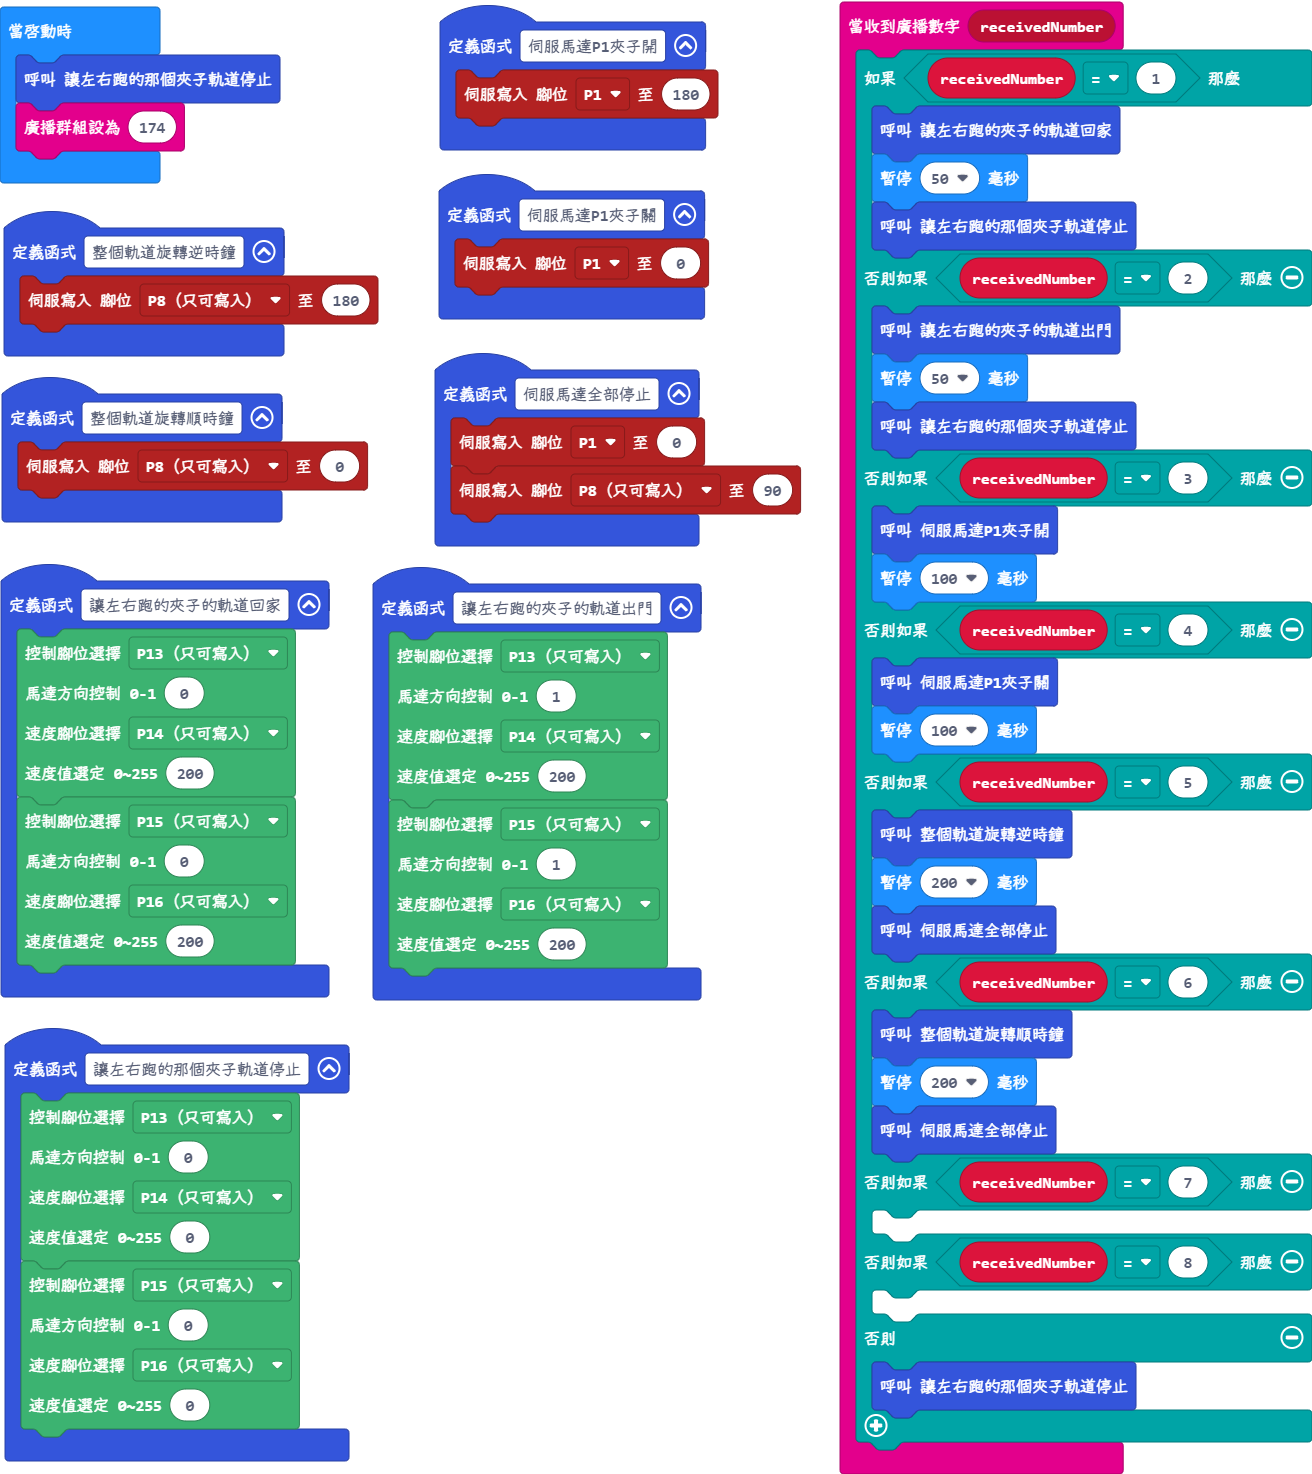
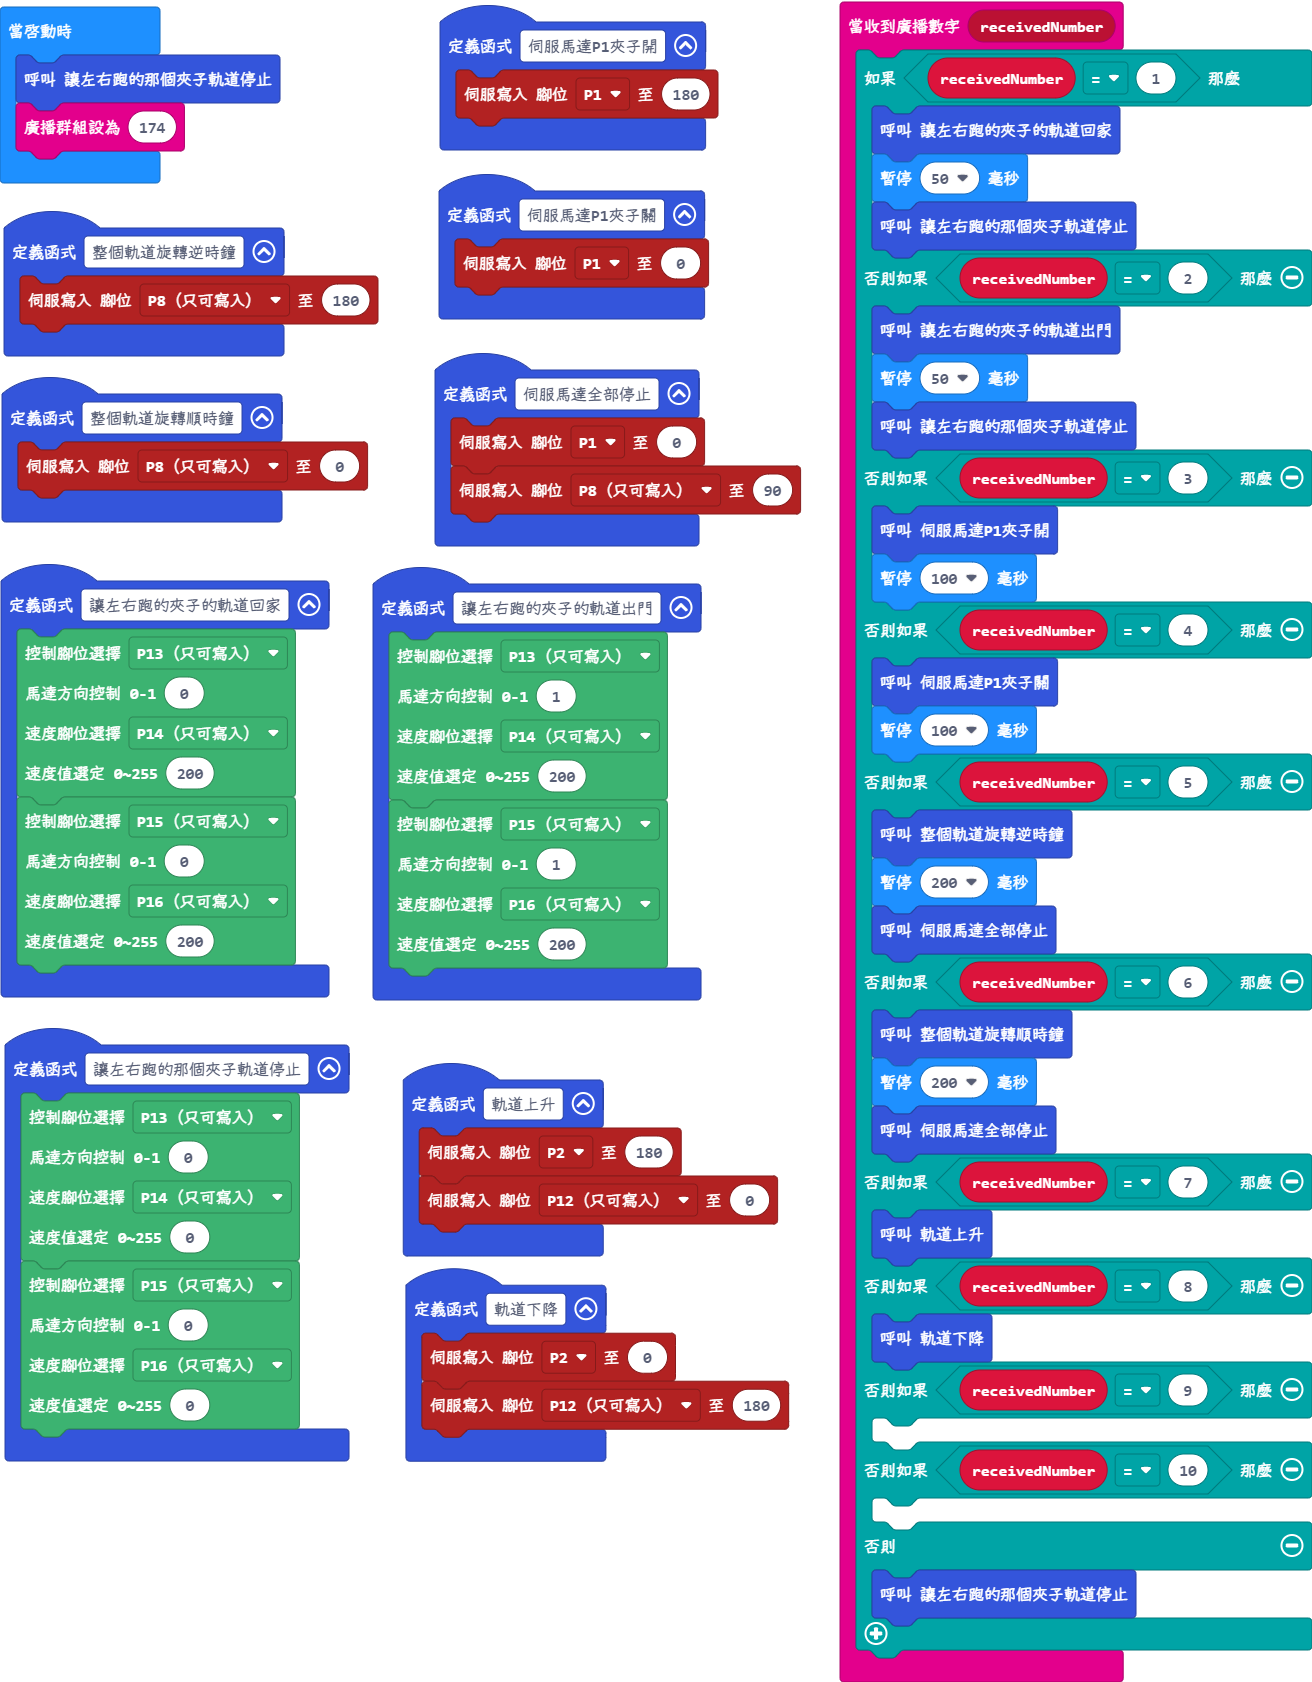
更新 main.blocks, main.ts

diff --git a/main.ts b/main.ts
@@ -22,8 +22,12 @@ radio.onReceivedNumber(function (receivedNumber) {
         basic.pause(200)
         伺服馬達全部停止()
     } else if (receivedNumber == 7) {
-    	
+        軌道上升()
     } else if (receivedNumber == 8) {
+        軌道下降()
+    } else if (receivedNumber == 9) {
+    	
+    } else if (receivedNumber == 10) {
     	
     } else {
         讓左右跑的那個夾子軌道停止()
@@ -34,6 +38,10 @@ function 整個軌道旋轉逆時鐘 () {
 }
 function 整個軌道旋轉順時鐘 () {
     pins.servoWritePin(AnalogPin.P8, 0)
+}
+function 軌道上升 () {
+    pins.servoWritePin(AnalogPin.P2, 180)
+    pins.servoWritePin(AnalogPin.P12, 0)
 }
 function 讓左右跑的夾子的軌道出門 () {
     sensors.DDMmotor(
@@ -48,6 +56,10 @@ function 讓左右跑的夾子的軌道出門 () {
     AnalogPin.P16,
     200
     )
+}
+function 軌道下降 () {
+    pins.servoWritePin(AnalogPin.P2, 0)
+    pins.servoWritePin(AnalogPin.P12, 180)
 }
 function 伺服馬達P1夾子開 () {
     pins.servoWritePin(AnalogPin.P1, 180)
